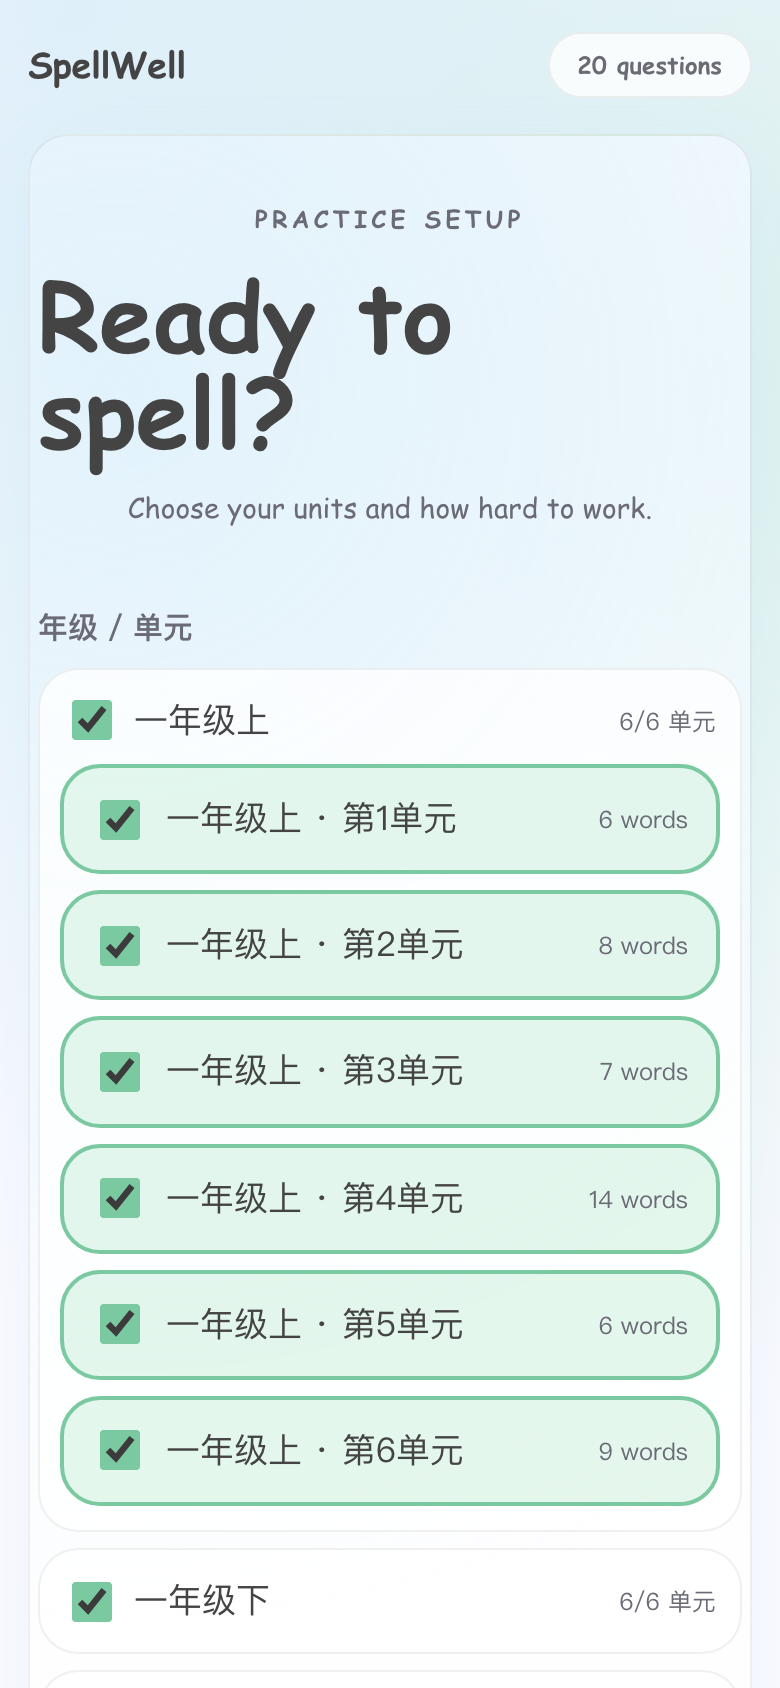
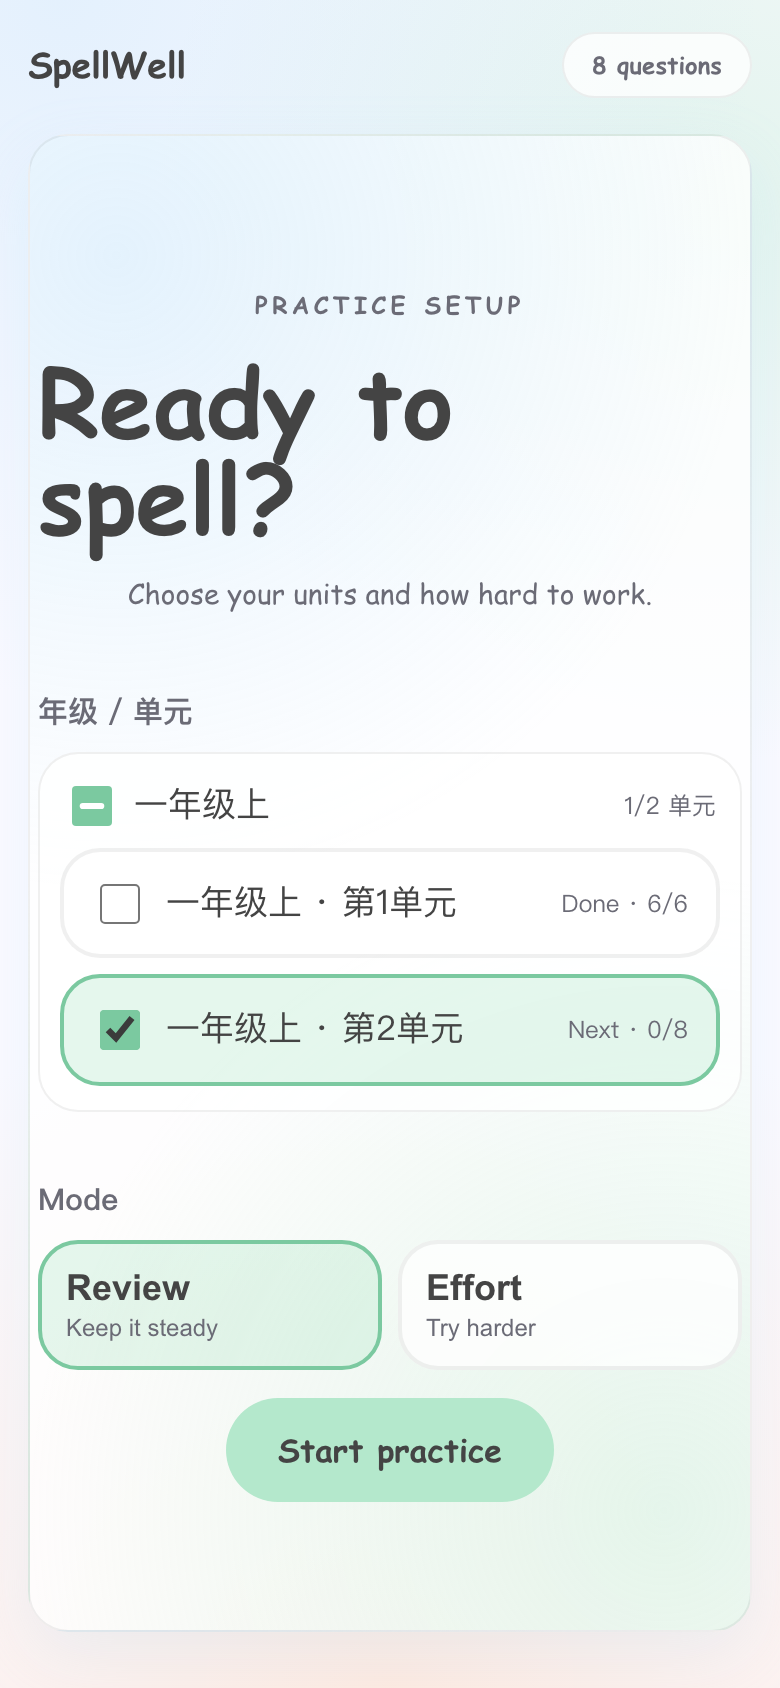
feat: unlock practice units sequentially
- show completed units plus the next unfinished unit only
- unit completion = every word has at least one practice state
- default-select the current unit; completed units remain selectable for review
- add progress badges and unit progress helper/tests
- P9 gate: 200 tests passing

diff --git a/src/ui/PracticeSetupScreen.js b/src/ui/PracticeSetupScreen.js
@@ -7,6 +7,8 @@
  * 题量由后台设置决定，前台不选。
  */
 
+import { visibleUnitProgress } from './unitProgress.js';
+
 function escape(value) {
   return String(value)
     .replaceAll('&', '&amp;').replaceAll('<', '&lt;').replaceAll('>', '&gt;')
@@ -25,11 +27,17 @@ export class PracticeSetupScreen {
     this.root = root;
     this.workspace = workspace;
     this.onStart = onStart;
-    this.selectedUnits = new Set(workspace.units.map((unit) => unit.id));
+    const progress = visibleUnitProgress(workspace.units);
+    this.visibleUnits = progress.visible;
+    this.completedUnits = progress.completed;
+    this.currentUnit = progress.current;
+    this.selectedUnits = new Set(
+      progress.current ? [progress.current.id] : progress.completed.map((unit) => unit.id),
+    );
     this.mode = workspace.settings.defaultMode;
     this.loading = false;
-    const firstUnitTerm = workspace.terms.find((term) => term.units.length > 0);
-    this.expandedTerms = new Set(firstUnitTerm ? [firstUnitTerm.id] : []);
+    const currentTerm = workspace.terms.find((term) => term.units.some((unit) => unit.id === progress.current?.id));
+    this.expandedTerms = new Set(currentTerm ? [currentTerm.id] : []);
   }
 
   mount() {
@@ -37,7 +45,11 @@ export class PracticeSetupScreen {
   }
 
   render(message = '') {
-    const units = this.workspace.units;
+    const visibleIds = new Set(this.visibleUnits.map((unit) => unit.id));
+    const terms = this.workspace.terms
+      .map((term) => ({ ...term, units: term.units.filter((unit) => visibleIds.has(unit.id)) }))
+      .filter((term) => term.units.length > 0);
+    const units = this.visibleUnits;
     const available = units
       .filter((unit) => this.selectedUnits.has(unit.id))
       .reduce((sum, unit) => sum + unit.count, 0);
@@ -58,7 +70,7 @@ export class PracticeSetupScreen {
           <section class="sw-setup__section">
             <h2>年级 / 单元</h2>
             <div class="sw-setup__terms">
-              ${this.workspace.terms.map((term) => {
+              ${terms.map((term) => {
                 const selectedCount = term.units.filter((unit) => this.selectedUnits.has(unit.id)).length;
                 const allSelected = term.units.length > 0 && selectedCount === term.units.length;
                 return `
@@ -71,13 +83,17 @@ export class PracticeSetupScreen {
                       <small>${term.units.length === 0 ? '暂无内容' : `${selectedCount}/${term.units.length} 单元`}</small>
                     </summary>
                     <div class="sw-setup__units">
-                      ${term.units.map((unit) => `
-                        <label class="sw-setup__unit ${this.selectedUnits.has(unit.id) ? 'is-selected' : ''}">
+                      ${term.units.map((unit) => {
+                        const done = Boolean(unit.completed);
+                        const status = done ? 'Done' : (unit.practiced ?? 0) > 0 ? 'In progress' : 'Next';
+                        return `
+                        <label class="sw-setup__unit ${this.selectedUnits.has(unit.id) ? 'is-selected' : ''} ${done ? 'is-done' : 'is-current'}">
                           <input type="checkbox" data-setup-unit="${escape(unit.id)}" ${this.selectedUnits.has(unit.id) ? 'checked' : ''} />
                           <span>${escape(unit.label)}</span>
-                          <small>${unit.count} words</small>
+                          <small>${status} · ${unit.practiced ?? 0}/${unit.count}</small>
                         </label>
-                      `).join('')}
+                      `;
+                      }).join('')}
                     </div>
                   </details>
                 `;

diff --git a/src/ui/bootstrap.js b/src/ui/bootstrap.js
@@ -60,10 +60,11 @@ async function ensureContent(adapter) {
 }
 
 async function readContent(adapter) {
-  const [words, graphemes, sentences] = await Promise.all([
+  const [words, graphemes, sentences, wordStates] = await Promise.all([
     adapter.query('words', {}),
     adapter.query('graphemes', {}),
     adapter.query('sentences', {}),
+    adapter.query('wordStates', {}),
   ]);
   const settings = await readPracticeSettings(adapter);
   const activeTextbook = await readActiveTextbook(adapter);
@@ -73,6 +74,7 @@ async function readContent(adapter) {
   const activeWords = words.filter((word) =>
     (word.textbook ?? DEFAULT_TEXTBOOK) === activeTextbook && word.reviewStatus !== 'retired',
   );
+  const stateByWord = new Map(wordStates.map((state) => [String(state.wordId), state]));
   const unitMap = new Map();
   for (const word of activeWords) {
     const id = String(word.unitId ?? `level-${word.level ?? 1}`);
@@ -85,9 +87,14 @@ async function readContent(adapter) {
         term: String(word.term ?? '下'),
         unit: Number(word.unit ?? 1),
         count: 0,
+        practiced: 0,
+        completed: false,
       });
     }
-    unitMap.get(id).count += 1;
+    const unit = unitMap.get(id);
+    unit.count += 1;
+    if (stateByWord.has(String(word.id))) unit.practiced += 1;
+    unit.completed = unit.practiced === unit.count;
   }
   const units = [...unitMap.values()].sort((a, b) => a.id.localeCompare(b.id));
   const terms = TERM_DEFINITIONS.map((definition) => ({

diff --git a/src/ui/unitProgress.js b/src/ui/unitProgress.js
@@ -1,0 +1,42 @@
+/**
+ * @layer ui
+ * @phase P9
+ * @doc §2.1 孩子端（学习模块）
+ *
+ * 单元顺序解锁：已完成单元 + 下一个未完成单元；后续单元不显示。
+ * 完成定义：该 unit 的所有词都至少完成过一次练习（有 wordState）。
+ */
+
+/**
+ * @param {Array<{id: string, grade?: number, term?: string, unit?: number, count: number, practiced?: number, completed?: boolean}>} units
+ * @returns {Array<{id: string, status: 'completed'|'in-progress'|'next'}>}
+ */
+export function orderUnits(units) {
+  return [...units].sort((a, b) => {
+    const grade = Number(a.grade ?? 0) - Number(b.grade ?? 0);
+    if (grade !== 0) return grade;
+    const term = String(a.term ?? '上') === String(b.term ?? '上') ? 0 : String(a.term) === '上' ? -1 : 1;
+    if (term !== 0) return term;
+    return Number(a.unit ?? 0) - Number(b.unit ?? 0);
+  });
+}
+
+/**
+ * @param {Array<{id: string, count: number, practiced?: number, completed?: boolean}>} units
+ * @returns {{visible: any[], completed: any[], current: any|null}}
+ */
+export function visibleUnitProgress(units) {
+  const ordered = orderUnits(units);
+  const completed = [];
+  let current = null;
+  for (const unit of ordered) {
+    if (unit.completed) {
+      completed.push(unit);
+      continue;
+    }
+    current = unit;
+    break;
+  }
+  const visible = current ? [...completed, current] : [...completed];
+  return { visible, completed, current };
+}

diff --git a/tests/p9/unitProgress.test.js b/tests/p9/unitProgress.test.js
@@ -1,0 +1,30 @@
+/**
+ * @layer tests
+ * @phase P9
+ * @doc §2.1 孩子端（学习模块）
+ */
+
+import { visibleUnitProgress } from '../../src/ui/unitProgress.js';
+import { assertDeepEqual, assertEqual, test } from '../harness.js';
+
+test('单元顺序解锁：完成 + 下一个，后续不显示', () => {
+  const units = [
+    { id: 'g1-s1-u2', grade: 1, term: '上', unit: 2, count: 5, completed: false },
+    { id: 'g1-s1-u1', grade: 1, term: '上', unit: 1, count: 5, completed: true },
+    { id: 'g1-s1-u3', grade: 1, term: '上', unit: 3, count: 5, completed: true },
+  ];
+  const result = visibleUnitProgress(units);
+  assertDeepEqual(result.visible.map((unit) => unit.id), ['g1-s1-u1', 'g1-s1-u2']);
+  assertEqual(result.current.id, 'g1-s1-u2');
+  assertEqual(result.completed.length, 1);
+});
+
+test('单元顺序解锁：全部完成时显示全部已完成', () => {
+  const units = [
+    { id: 'a', grade: 1, term: '上', unit: 1, count: 5, completed: true },
+    { id: 'b', grade: 1, term: '上', unit: 2, count: 5, completed: true },
+  ];
+  const result = visibleUnitProgress(units);
+  assertEqual(result.visible.length, 2);
+  assertEqual(result.current, null);
+});

diff --git a/tests/p0/traceability.test.js b/tests/p0/traceability.test.js
@@ -100,6 +100,7 @@ test('ADR：偏离设计的裁决已入库，并被追溯矩阵引用', async ()
   assert(decisionFiles.includes('0020-prompt-resource-priority.md'));
   assert(decisionFiles.includes('0021-word-library-import-export.md'));
   assert(decisionFiles.includes('0022-textbook-switch.md'));
+  assert(decisionFiles.includes('0023-sequential-unit-unlock.md'));
   const adr1 = await read('docs/decisions/0001-storage-contract.md');
   const adr2 = await read('docs/decisions/0002-docs-as-code.md');
   assertMatch(adr1, /状态\*\*：Accepted/);

diff --git a/styles/practice.css b/styles/practice.css
@@ -860,3 +860,22 @@
   letter-spacing: 0.14em;
   text-transform: uppercase;
 }
+
+/* P9 顺序解锁状态 */
+.sw-setup__unit.is-done {
+  border-color: var(--sw-line);
+  background: var(--sw-surface);
+}
+
+.sw-setup__unit.is-done.is-selected {
+  border-color: var(--sw-mint-deep);
+  background: var(--sw-mint-soft);
+}
+
+.sw-setup__unit.is-current {
+  border-style: solid;
+}
+
+.sw-setup__unit small {
+  white-space: nowrap;
+}

diff --git a/CHANGELOG.md b/CHANGELOG.md
@@ -7,7 +7,8 @@
 - 单元模型 `grade/term/unit` + `unitId/unitLabel`；接入两套教材：人教新起点 583 词、外研版新交际（北京专版）891 词。
 - 后台新增“教材版本”切换；学习端按当前教材取词。
 - 练习设计按“一年级上/下、二年级上/下”折叠，学期下多选 unit。
-- 练习设计页：一至六年级上/下折叠；学期下多选 unit；Review/Effort；前台不选题量。
+- 练习设计页：只显示已完成单元 + 下一个新单元，按学期/单元顺序解锁；Review/Effort；前台不选题量。
+- 单元完成定义：该单元全部词至少练习过一次；完成单元可复选复习。
 - 题量设置 `meta.practiceSettings`，默认 20，范围 5—30。
 - 后台练习设置页 `/src/admin/settings.html`，面包屑“内容库 / 练习设置”。
 - Scheduler 支持 unit 过滤、retired 过滤、Review/Effort 侧重。
@@ -19,7 +20,7 @@
 - 当前会话不被内容更新打断；BroadcastChannel 提示 `New practice`。
 - 计划项带 `params.plan.reason/mode/policyVersion`。
 - `PlanPolicy.revise()` 兼容接口，P9 不实时改题。
-- `tests/p9/`：题量、单元、mode、retired、plan hook、权重校准、提示词优先级、批量单元标题、词库导入导出。
+- `tests/p9/`：题量、单元、mode、retired、plan hook、权重校准、提示词、批量单元、词库、教材切换、顺序解锁。
 - 提示词按句子 → 音标 → 中文 → 单词保底；CLOZE 不重复句子。
 - 批量录入支持单元标题行（如 `一年级上unit2`），后续词继承单元直到下一个标题。
 - 词库支持单独 JSON 导入/导出（按当前教材）；重复词按合并/替换/不动处理。
@@ -35,7 +36,7 @@
 
 ```bash
 node tests/runTests.js --phase=p9
-# PASS  p9 gate · 198 passed · 0 failed · 41 files
+# PASS  p9 gate · 200 passed · 0 failed · 42 files
 ```
 
 - 练习设计：3 单元全选、Review、20 questions；开始后 `1 / 20`。

diff --git a/docs/decisions/0023-sequential-unit-unlock.md b/docs/decisions/0023-sequential-unit-unlock.md
@@ -1,0 +1,60 @@
+# ADR-0023：单元顺序解锁与练习设计页
+
+- **状态**：Accepted
+- **日期**：2026-11-12
+- **影响条款**：DESIGN §2.1
+- **相关**：`unitProgress.js`、`PracticeSetupScreen.js`、`bootstrap.js`
+
+## 背景
+
+练习设计页原先一次显示当前教材全部 72 个单元，孩子无法判断学习顺序；
+用户要求只显示已完成单元和下一个新单元，按顺序解锁。
+
+## 决定
+
+### D1：完成定义
+
+单元完成 = 该单元全部词都至少完成过一次练习（存在 `wordState`）。
+
+- 不要求全部 `mastered`；
+- 掌握程度仍由调度器/复习曲线负责；
+- 单元进度显示 `practiced/count`。
+
+### D2：可见单元
+
+按 `grade → term(上/下) → unit` 排序：
+
+```text
+所有已完成单元 + 第一个未完成单元（Next）
+```
+
+后续单元不渲染，直到当前单元完成。
+
+- 已完成单元可复选，用于复习；
+- 当前单元默认选中；
+- 全部完成时显示全部已完成单元；
+- 锁定单元不显示，避免误选。
+
+### D3：进度来源
+
+`readContent` 同时读取 `wordStates`：
+
+```js
+unit.practiced = unit 内已有 wordState 的词数
+unit.completed = practiced === count
+```
+
+切换教材后按当前教材重新计算。
+
+### D4：题量
+
+仍受后台 `questionsPerPractice` 约束；但当前单元词数不足 20 时，
+只生成实际可出题数量（例如第 1 单元 6 词 → 6 题），不跨未解锁单元凑数。
+
+## 后果
+
+- 正面：孩子看到清晰的“Done / Next”路径；
+- 正面：不会一次看到 72 个单元；
+- 正面：完成单元仍可选择复习；
+- 负面：早期小单元题量少于 20；
+- 负面：完成定义是“练过”而非“掌握”，掌握情况看 Stats。

diff --git a/docs/ROADMAP.md b/docs/ROADMAP.md
@@ -396,7 +396,7 @@ node tests/runTests.js --phase=p8
 
 - [x] 内容单元模型：`grade/term/unit` + `unitId/unitLabel`；人教版 583 词 + 外研版 891 词；后台切换教材。
 - [x] 两套词库来源、数据质量与优化报告：`docs/PEP_VOCAB_BASE.md`、`docs/FLTRP_VOCAB_BASE.md`。
-- [x] 练习设计按年级学期折叠；学期下多选 unit。
+- [x] 练习设计按年级学期折叠；只显示已完成单元 + 下一个新单元。
 - [x] 真实 attempts 权重校准（按词/题型错误率、平滑、约束优先）。
 - [x] 修复旧 DB 无 unitId 时 Start practice 空队列。
 - [x] 前台练习设计页：年级学期折叠 + unit 多选、Review/Effort、后台题量；不显示题量选择。
@@ -409,13 +409,13 @@ node tests/runTests.js --phase=p8
 - [x] 提示词按句子 → 音标 → 中文 → 单词保底；CLOZE 句子即题面。
 - [x] 批量单元标题：`一年级上unit2` 后续词继承，直到下一个标题。
 - [x] 词库单独导入/导出：重复词合并/替换/不动。
-- [x] `tests/p9/`：默认题量、单元过滤、retired、Review/Effort、plan hook、权重校准、提示词、批量单元标题。
+- [x] `tests/p9/`：默认题量、单元过滤、retired、Review/Effort、plan hook、权重校准、提示词、批量单元、教材切换、顺序解锁。
 
 ### 验收结果
 
 ```bash
 node tests/runTests.js --phase=p9
-# PASS  p9 gate · 198 passed · 0 failed · 41 files
+# PASS  p9 gate · 200 passed · 0 failed · 42 files
 ```
 
 - 练习设计页：12 个学期折叠、unit 多选、Review 默认、`20 questions`。

diff --git a/docs/TRACEABILITY.md b/docs/TRACEABILITY.md
@@ -113,6 +113,7 @@
 | R-P9-08 | 2026 人教新起点 1—6 年级基础词库 | `src/content/words.json` + report | content tests + data audit | P9 | ✅ |
 | R-P9-09 | 外研版新交际（北京专版）基础词库 | `src/content/words.json` + report | content tests + data audit | P9 | ✅ |
 | R-P9-10 | 后台切换教材版本，学习端按版本取词 | `textbooks.js` + bootstrap/AdminApp | `tests/p9/textbooks.test.js` + 浏览器 | P9 | ✅ |
+| R-P9-11 | 单元顺序解锁：已完成 + 下一个 | `unitProgress` + PracticeSetupScreen | `tests/p9/unitProgress.test.js` + 浏览器 | P9 | ✅ |
 | R-P7-09 | 批量单元标题行切换后续词单元 | `WordImporter.parseBatch` + AdminApp | `tests/p7/import.test.js` + `tests/p7/editor.test.js` | P7 | ✅ |
 | R-P7-10 | 词库单独导入/导出与重复词合并/替换/不动 | `WordLibrary` + AdminApp | `tests/p7/wordLibrary.test.js` + 浏览器 | P7 | ✅ |
 | R-P8-05 | 本机数据全量迁移独立于内容编辑 | `MigrationApp` | 浏览器迁移页 | P8 | ✅ |
@@ -213,6 +214,7 @@
 | A-22 | 提示词优先用哪种资源 | 句子→音标→中文→单词；只读；CLOZE 句子即题面 | ADR-0020 |
 | A-23 | 词库导入导出如何与迁移区分 | 只含 words；合并/替换/不动；导入校验落库；全量迁移独立 | ADR-0021 |
 | A-24 | 多套教材如何共存/切换 | textbook 字段；meta.activeTextbook；同名单词独立 ID | ADR-0022 |
+| A-25 | 练习单元如何解锁 | 完成=全部词练过；显示已完成+下一个；不足20不跨单元 | ADR-0023 |
 
 ---
 

diff --git a/README.md b/README.md
@@ -205,7 +205,7 @@ tools/serve.mjs   零依赖静态服务器
 
 - 两套教材词库：人教版新起点 583 词、外研版新交际（北京专版）891 词；后台可切换当前教材。
 - 词库来源/质量/优化报告：[`docs/PEP_VOCAB_BASE.md`](docs/PEP_VOCAB_BASE.md)、[`docs/FLTRP_VOCAB_BASE.md`](docs/FLTRP_VOCAB_BASE.md)。
-- 练习设计页：一至六年级上/下折叠；每个学期下多选 unit；Review/Effort；不选题量。
+- 练习设计页：只显示已完成单元 + 下一个新单元；按学期/单元顺序解锁；完成单元可复选复习；Review/Effort；不选题量。
 - 后台题量默认 20，设置页 `/src/admin/settings.html`，面包屑返回内容库。
 - 题量、单元、模式进入 Scheduler；真实 attempts 校准选词权重；当前会话不因内容更新中断。
 - 每个计划项带 `reason/mode/policyVersion/score/calibration`；`revise()` 接口预留。

diff --git a/docs/decisions/README.md b/docs/decisions/README.md
@@ -26,6 +26,7 @@
 | [0020](0020-prompt-resource-priority.md) | 提示词资源优先级 | Accepted | 句子→音标→中文→单词；只读；CLOZE 不重复 |
 | [0021](0021-word-library-import-export.md) | 词库单独导入/导出 | Accepted | 只含 words；合并/替换/不动；导入校验后落库 |
 | [0022](0022-textbook-switch.md) | 多教材版本与后台切换 | Accepted | textbook 字段；meta.activeTextbook；两套词库共存 |
+| [0023](0023-sequential-unit-unlock.md) | 单元顺序解锁与练习设计页 | Accepted | 完成单元 + 下一个；完成=全部词练过；不足20不跨单元 |
 
 新增 ADR 的模板：
 
